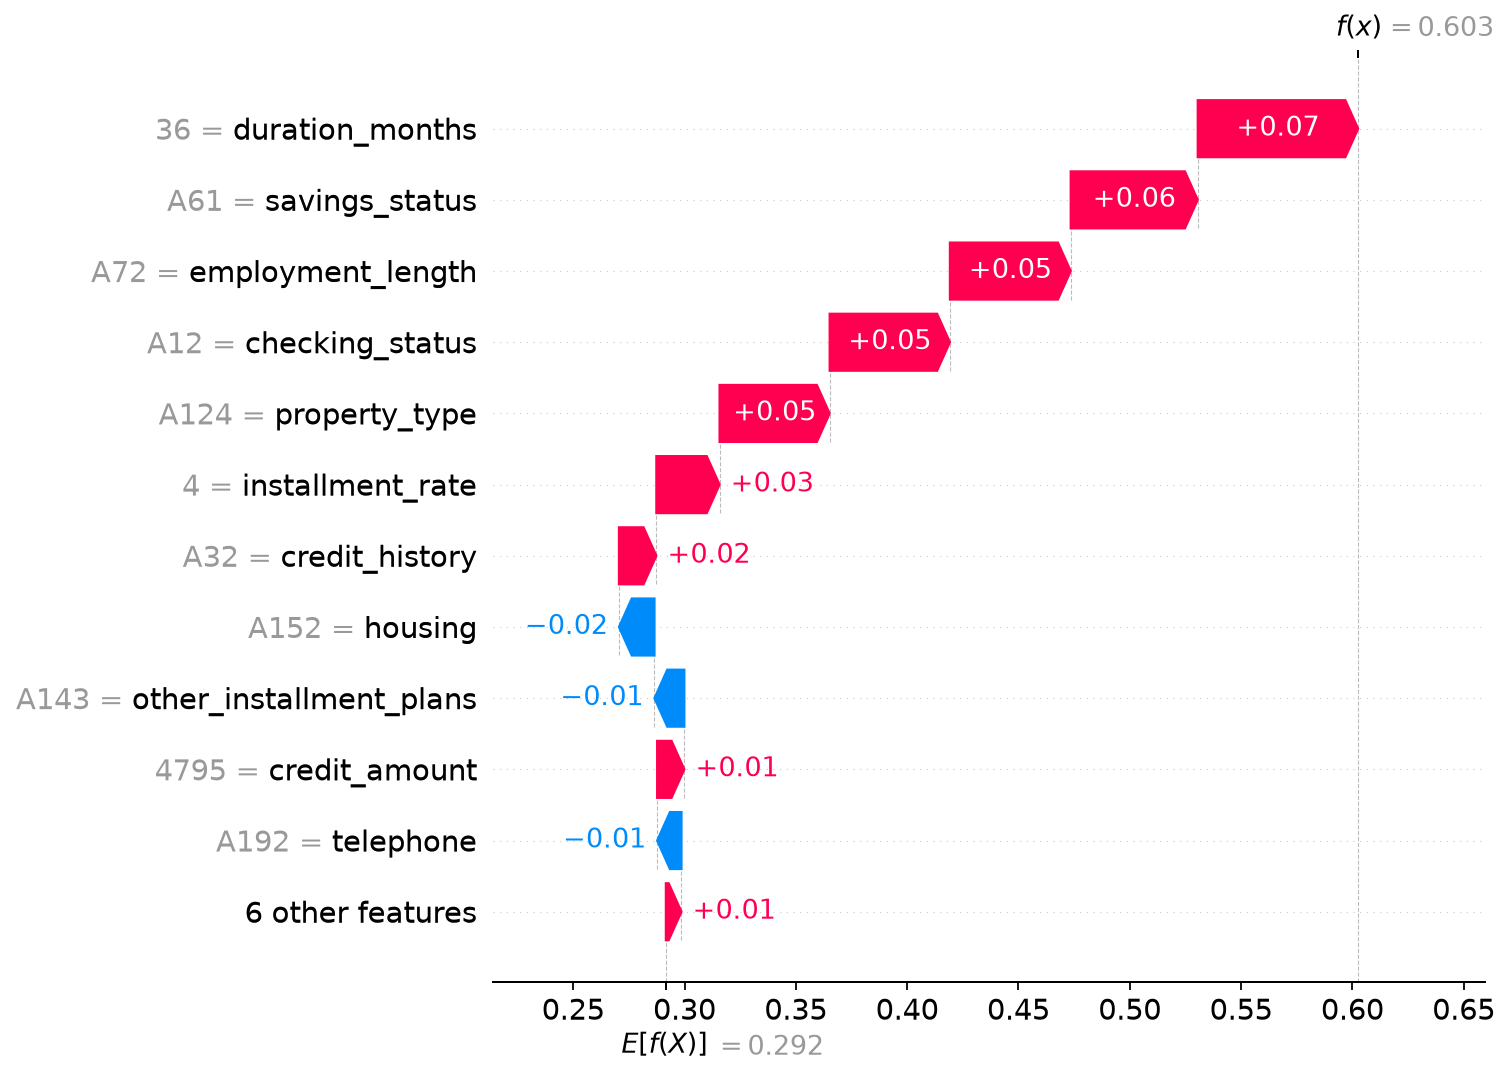
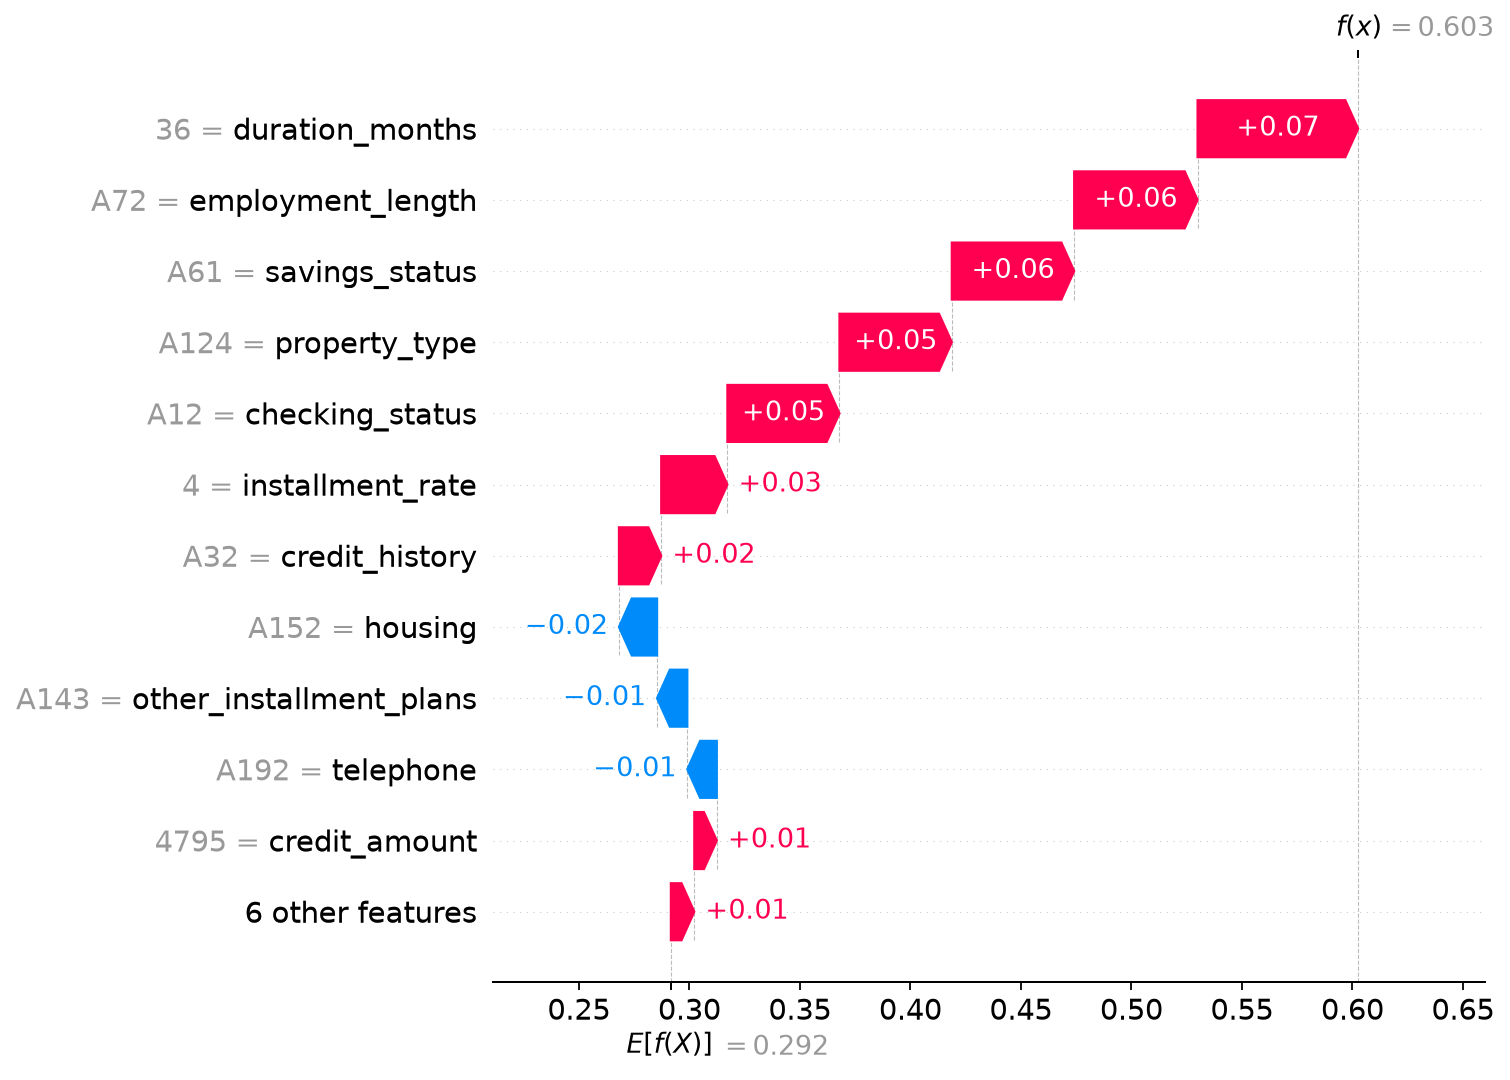
Improve project documentation and SHAP explanation

diff --git a/README.md b/README.md
@@ -1,7 +1,38 @@
 # Credit Risk Lab — Explainable Credit Risk Scoring (Educational Project)
 
 > **Status:** reproducible learning prototype; **not** approved for real lending or credit decisions. Based on historical German Credit data (1994), not a contemporary Moroccan or international banking sample.
-## Project Visualizations
+
+## Business question
+
+Can we distinguish historical *bad credit risk* from *good credit risk*, estimate probabilities responsibly, and explain the model's predictions? We compare a statistical baseline (logistic regression) against a Random Forest, each probability-calibrated using training-only cross-validation, then select a model and a decision threshold **using validation data only**.
+
+**Target variable definition:** The original German
+Credit dataset labels credit records as good risk (1)
+or bad risk (2). For binary classification, these
+labels are mapped to 0 (good risk) and 1 (bad risk).
+The model estimates the probability of belonging
+to the historical bad-credit-risk class, not a
+validated probability of default for contemporary
+banking populations.
+
+
+## Verified results from the original run
+
+| Item | Result |
+|---|---:|
+| Dataset | 1,000 historical records / 20 explanatory variables |
+| Split, stratified with `random_state=42` | 600 train / 200 validation / 200 test |
+| Selected model (validation cost) | Calibrated Random Forest |
+| Selected threshold (validation) | 0.26 |
+| Validation ROC-AUC, selected model | 0.8132 |
+| Test ROC-AUC | **0.7779** |
+| Stratified bootstrap percentile 95% CI (test, 2,000 draws) | **[0.7111, 0.8426]** |
+| Test PR-AUC | 0.6091 |
+| Test Brier score | 0.1676 |
+| Test recall of bad risk | 47/60 = 78.3% |
+| Test specificity for good risk | 91/140 = 65.0% |
+
+Illustrative costs: false negative (missed bad risk) = 5 units, false positive = 1 unit. These are **not real monetary losses**. Small validation differences (85 vs 89 cost units) should not be overinterpreted. Scores can vary with the split and sample. Never retune a model based on the final test results.
 
 ### ROC Curve — Independent Test Set
 
@@ -22,28 +53,6 @@ stronger average contribution to model predictions,
 without indicating whether a variable increases or
 decreases predicted risk. SHAP explanations describe
 model behavior, not causal relationships.
-
-## Business question
-
-Can we distinguish historical *bad credit risk* from *good credit risk*, estimate probabilities responsibly, and explain the model's predictions? We compare a statistical baseline (logistic regression) against a Random Forest, each probability-calibrated using training-only cross-validation, then select a model and a decision threshold **using validation data only**.
-
-## Verified results from the original run
-
-| Item | Result |
-|---|---:|
-| Dataset | 1,000 historical records / 20 explanatory variables |
-| Split, stratified with `random_state=42` | 600 train / 200 validation / 200 test |
-| Selected model (validation cost) | Calibrated Random Forest |
-| Selected threshold (validation) | 0.26 |
-| Validation ROC-AUC, selected model | 0.8132 |
-| Test ROC-AUC | **0.7779** |
-| Stratified bootstrap percentile 95% CI (test, 2,000 draws) | **[0.7111, 0.8426]** |
-| Test PR-AUC | 0.6091 |
-| Test Brier score | 0.1676 |
-| Test recall of bad risk | 47/60 = 78.3% |
-| Test specificity for good risk | 91/140 = 65.0% |
-
-Illustrative costs: false negative (missed bad risk) = 5 units, false positive = 1 unit. These are **not real monetary losses**. Small validation differences (85 vs 89 cost units) should not be overinterpreted. Scores can vary with the split and sample. Never retune a model based on the final test results.
 
 ## Install & reproduce (macOS / Linux)
 
@@ -111,3 +120,4 @@ Hofmann, H. (1994), **Statlog (German Credit Data)**, UCI Machine Learning Repos
 ## Further work (not yet implemented)
 
 Uncertainty intervals for subgroup performance; larger SHAP explanation sample; robust cross-seed or external validation; MLflow experiment tracking; production-grade inference API; drift monitoring. These are **future extensions**, not completed features.
+ 
